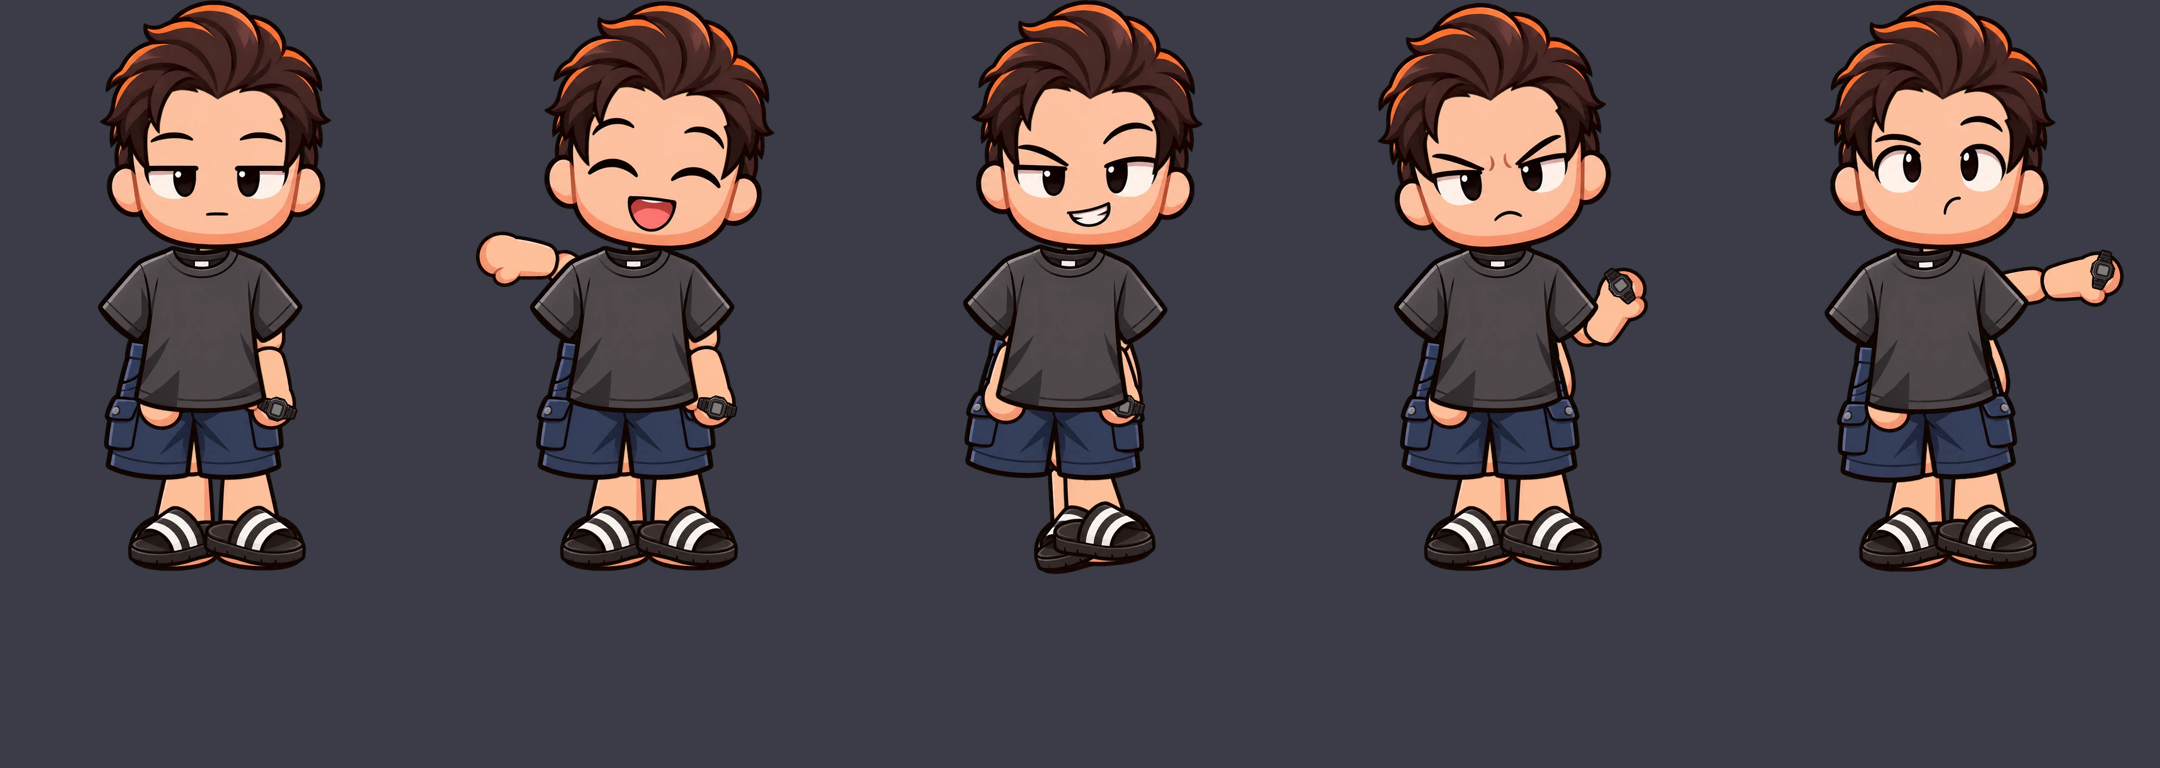
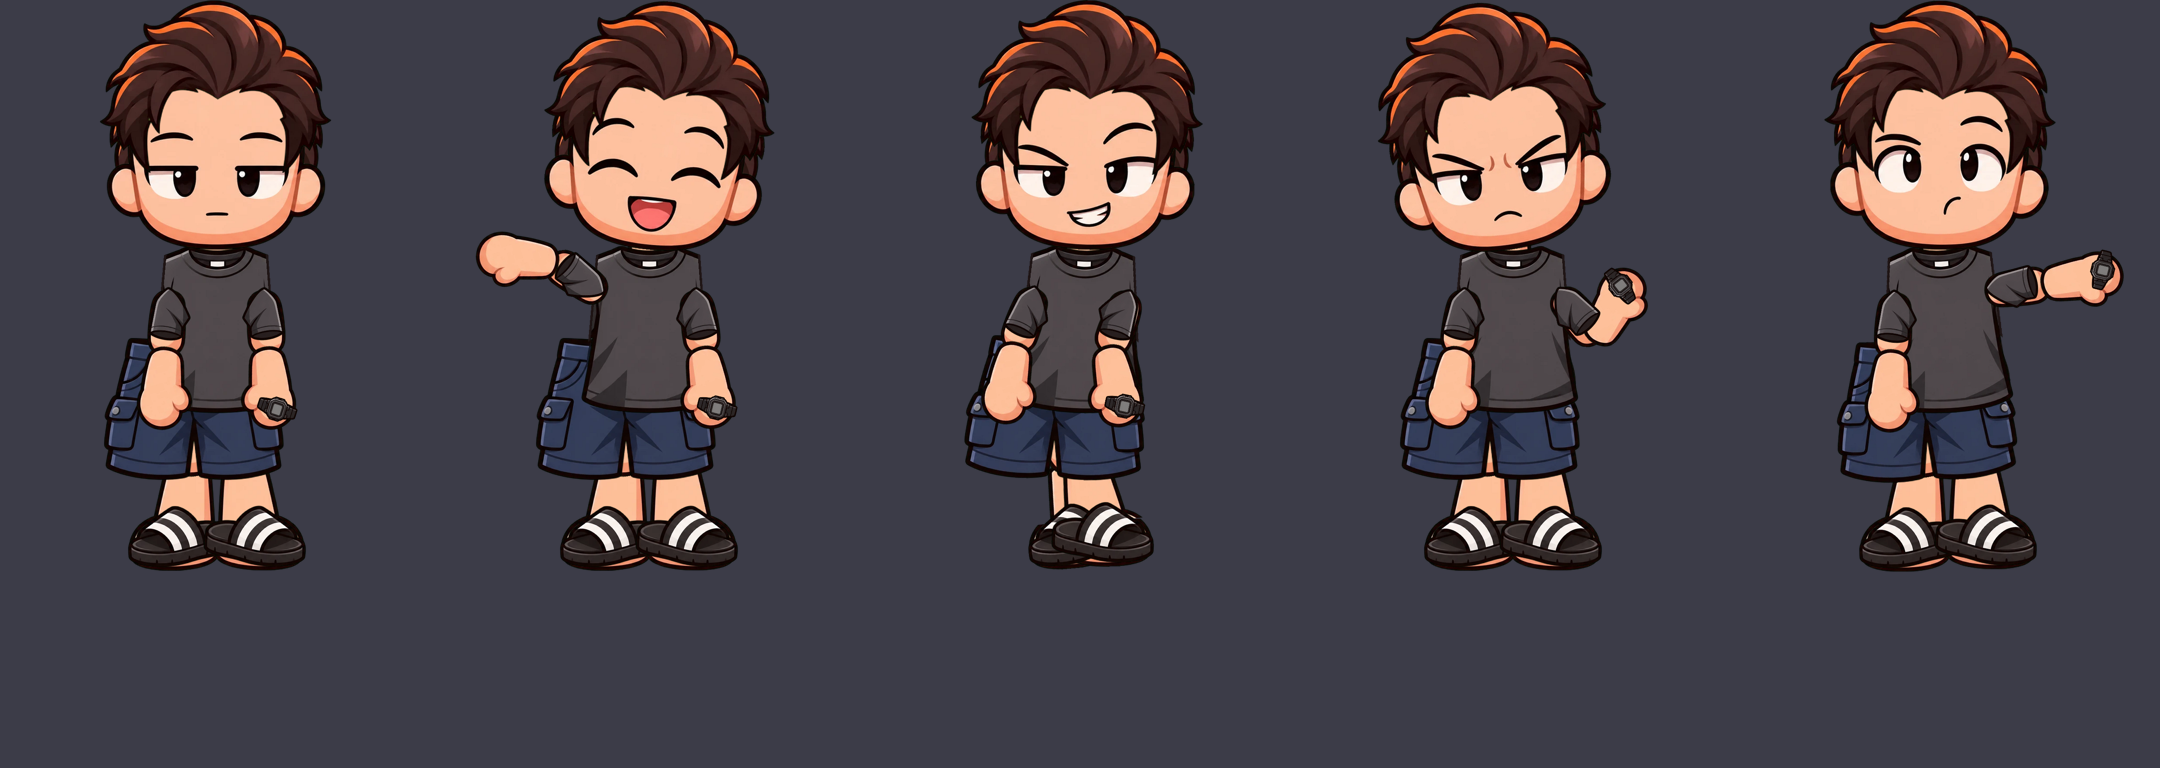
Assembler: separate sleeves, arms in front of shirt, ankle/foot split
Claude-Session: https://claude.ai/code/session_01Byrjuthbsv1nwgYw99Hssd

diff --git a/tools/chibi/assemble.py b/tools/chibi/assemble.py
@@ -23,7 +23,9 @@ FIT = dict(
     hip=dict(R=(78, 262), L=(167, 262)),
     neck_socket=(122, 16),
     head_w=420,                                   # expression heads are scaled to this width
-    shirt=dict(s=0.84, anchor=(270, 44), at=(122, 10)),    # shirt-local point -> torso-local point
+    shirt=dict(s=0.84, anchor=(234, 44), at=(122, 10)),
+    sleeve=dict(len=0.78, dx=0, dy=-6),
+    ankle_row=118, foot_follow=0.35,    # shirt-local point -> torso-local point
     shorts=dict(s=0.88, anchor=(245, 20), at=(122, 168)),
     hair_front=dict(s=0.93, anchor=(240, 215), at=(0.5, 0.18)),   # at = fraction of head w/h
     hair_back=dict(s=0.93, anchor=(220, 230), at=(0.5, 0.42)),
@@ -33,6 +35,20 @@ FIT = dict(
 
 def load(*p):
     return Image.open(os.path.join(A, *p)).convert("RGBA")
+
+def axis_ends(im, frac=0.12):
+    """prox/dist ends of a piece along its long axis (prox = upper end)."""
+    a = np.asarray(im)[..., 3]; ys, xs = np.nonzero(a > 128)
+    pts = np.c_[xs, ys].astype(float); c = pts.mean(0)
+    ax = np.linalg.svd(pts - c, full_matrices=False)[2][0]
+    if ax[1] < 0: ax = -ax
+    t = (pts - c) @ ax; lo, hi = t.min(), t.max()
+    return pts[t < lo + frac * (hi - lo)].mean(0), pts[t > hi - frac * (hi - lo)].mean(0)
+
+def split_rows(im, y0, y1):
+    """copy of im keeping only rows y0 <= y < y1 (same canvas size)"""
+    a = np.asarray(im).copy(); a[:y0] = 0; a[y1:] = 0
+    return Image.fromarray(a, "RGBA")
 
 class Rig:
     def __init__(self):
@@ -105,13 +121,20 @@ class Character:
             knee = self._fwd(hip, ph, s, (M[thigh]["dist"][0] - M[thigh]["prox"][0], M[thigh]["dist"][1] - M[thigh]["prox"][1]))
             pk = P["hip_" + side] + P["knee_" + side]
             add(10, lambda t=thigh, h=hip, ph=ph: self._draw(canvas, self.img[t], M[t]["prox"], h, ph, s))
-            add(9, lambda l=ll, k=knee, pk=pk: self._draw(canvas, self.img[l], M[l]["prox"], k, pk, s))
+            ar = FIT["ankle_row"]; full = self.img[ll]
+            fa_ = np.asarray(full)[..., 3] > 128
+            xs = np.nonzero(fa_[100])[0]; ax_ = ((xs.min() + xs.max()) / 2.0, float(ar))
+            shaft, foot = split_rows(full, 0, ar + 4), split_rows(full, ar, full.height)
+            add(9, lambda sh_=shaft, k=knee, pk=pk, ll=ll: self._draw(canvas, sh_, M[ll]["prox"], k, pk, s))
+            ankle = self._fwd(knee, pk, s, (ax_[0] - M[ll]["prox"][0], ax_[1] - M[ll]["prox"][1]))
+            pfoot = pk * FIT["foot_follow"]
+            add(11, lambda f_=foot, an=ankle, pf=pfoot, ax_=ax_: self._draw(canvas, f_, ax_, an, pf, s))
             if self.clothes:
                 sz = M[ll]["size"]
-                foot_local = (sz[0] / 2 + (8 if side == "R" else -8), sz[1] - 52)
-                fk = self._fwd(knee, pk, s, (foot_local[0] - M[ll]["prox"][0], foot_local[1] - M[ll]["prox"][1]))
+                off = (sz[0] / 2 + (8 if side == "R" else -8) - ax_[0], sz[1] - 52 - ax_[1])
                 sand = load("clothes", "sandal_A.png" if side == "R" else "sandal_B.png")
-                add(11, lambda sa=sand, fk=fk, pk=pk: self._draw(canvas, sa, (sa.width / 2, sa.height * 0.62), fk, pk, s * FIT["sandal"]["s"]))
+                spt = self._fwd(ankle, pfoot, s, off)
+                add(12, lambda sa=sand, sp_=spt, pf=pfoot: self._draw(canvas, sa, (sa.width / 2, sa.height * 0.62), sp_, pf, s * FIT["sandal"]["s"]))
 
         # ----- torso, clothes -----
         add(20, lambda: self._draw(canvas, self.img["torso"], tor_pt, T, tphi, s))
@@ -119,7 +142,7 @@ class Character:
             sh = load("clothes", "shorts_front.png"); f = FIT["shorts"]
             sw = tw(f["at"])
             add(21, lambda: self._draw(canvas, sh, f["anchor"], sw, tphi, s * f["s"]))
-            ts = load("clothes", "tshirt_front.png"); f2 = FIT["shirt"]
+            ts = load("clothes", "tshirt_front_nosleeve.png"); f2 = FIT["shirt"]
             tw_ = tw(f2["at"])
             add(30, lambda: self._draw(canvas, ts, f2["anchor"], tw_, tphi, s * f2["s"]))
 
@@ -131,12 +154,19 @@ class Character:
             elbow = self._fwd(sp, ph, sa, (M[ua]["dist"][0] - M[ua]["prox"][0], M[ua]["dist"][1] - M[ua]["prox"][1]))
             pf = P["shoulder_" + side] + P["elbow_" + side] + tphi
             pfa = pf + rig.align(fa)
-            add(25, lambda u=ua, sp=sp, ph=ph: self._draw(canvas, self.img[u], M[u]["prox"], sp, ph, sa))
-            add(26, lambda f_=fa, e=elbow, pfa=pfa: self._draw(canvas, self.img[f_], M[f_]["prox"], e, pfa, sa))
+            add(31, lambda u=ua, sp=sp, ph=ph: self._draw(canvas, self.img[u], M[u]["prox"], sp, ph, sa))
+            add(32, lambda f_=fa, e=elbow, pfa=pfa: self._draw(canvas, self.img[f_], M[f_]["prox"], e, pfa, sa))
+            if self.clothes:
+                sl = load("clothes", "sleeve_" + side + ".png")
+                sp0, sp1 = axis_ends(sl); slen = math.hypot(*(sp1 - sp0))
+                ulen = math.hypot(M[ua]["dist"][0] - M[ua]["prox"][0], M[ua]["dist"][1] - M[ua]["prox"][1])
+                ss = sa * FIT["sleeve"]["len"] * ulen / slen
+                vx, vy = sp1 - sp0; psl = P["shoulder_" + side] + tphi + (90.0 - math.degrees(math.atan2(vy, vx)))
+                add(33, lambda sl=sl, sp0=sp0, sp=sp, psl=psl, ss=ss: self._draw(canvas, sl, (sp0[0], sp0[1]), (sp[0], sp[1] + FIT["sleeve"]["dy"] * s), psl, ss))
             if self.clothes and side == "L":
                 wp = self._fwd(elbow, pfa, sa, (M[fa]["dist"][0] - M[fa]["prox"][0], M[fa]["dist"][1] - M[fa]["prox"][1] - FIT["watch"]["back"]))
                 w = load("clothes", "watch.png")
-                add(27, lambda w=w, wp=wp, pfa=pfa: self._draw(canvas, w, (w.width / 2, w.height / 2), wp, pfa, sa * FIT["watch"]["s"]))
+                add(34, lambda w=w, wp=wp, pfa=pfa: self._draw(canvas, w, (w.width / 2, w.height / 2), wp, pfa, sa * FIT["watch"]["s"]))
 
         # ----- neck + head -----
         nm = M["neck"]; sock = tw(FIT["neck_socket"])

diff --git a/tools/chibi/prep_clothes.py b/tools/chibi/prep_clothes.py
@@ -1,0 +1,36 @@
+"""Make sleeveless shirt cutouts (sleeves are drawn separately on the upper arms).
+    python3 -I tools/chibi/prep_clothes.py
+Reads assets/clothes/tshirt_front.png / tshirt_back.png, writes *_nosleeve.png next to them."""
+import os
+import numpy as np
+from PIL import Image, ImageDraw, ImageFilter
+
+D = os.path.join(os.path.dirname(os.path.abspath(__file__)), "..", "..", "assets", "clothes")
+OUTLINE = (30, 20, 20, 255)
+
+def nosleeve(name):
+    im = Image.open(os.path.join(D, name + ".png")).convert("RGBA")
+    w, h = im.size
+    # keep polygon: vertical-ish body, cut where the sleeves join
+    xl0, xl1 = w * 0.25, w * 0.205      # left cut x at top / at hem line
+    xr0, xr1 = w * 0.75, w * 0.79
+    yc = h * 0.63
+    poly = [(xl0, 0), (xr0, 0), (xr1, yc), (w, yc), (w, h), (0, h), (0, yc), (xl1, yc)]
+    keep = Image.new("L", (w, h), 0); ImageDraw.Draw(keep).polygon(poly, fill=255)
+    # below the hem line keep everything (body only there)
+    ImageDraw.Draw(keep).rectangle([0, yc, w, h], fill=255)
+    a = np.asarray(im).copy()
+    a[..., 3] = (a[..., 3].astype(np.float32) * (np.asarray(keep) / 255.0)).astype(np.uint8)
+    out = Image.fromarray(a, "RGBA")
+    # outline stroke along the two cut edges, clipped to the kept silhouette
+    stroke = Image.new("RGBA", (w, h), (0, 0, 0, 0)); d = ImageDraw.Draw(stroke)
+    d.line([(xl0, h * 0.02), (xl1, yc)], fill=OUTLINE, width=9)
+    d.line([(xr0, h * 0.02), (xr1, yc)], fill=OUTLINE, width=9)
+    clip = np.minimum(np.asarray(out)[..., 3], np.asarray(im)[..., 3])
+    sa = np.asarray(stroke).copy(); sa[..., 3] = np.minimum(sa[..., 3], clip)
+    out = Image.alpha_composite(out, Image.fromarray(sa, "RGBA"))
+    out.save(os.path.join(D, name + "_nosleeve.png"))
+
+for n in ("tshirt_front", "tshirt_back"):
+    nosleeve(n)
+print("ok")

diff --git a/README.md b/README.md
@@ -22,7 +22,8 @@ This project is a fork of the MIT-licensed *Ricks Clips Style Kit* by @caesarsca
 - [x] Mouth shapes (9), hair (5 views), clothes (11 pieces) and 5-view turnaround cut into transparent PNGs (`assets/mouths|hair|clothes|turnaround`)
 - [ ] 20-face personality sheet added as a file (`assets/faces/`), see `docs/11_PERSONALITY_FACES.md`
 - [x] Assembler `tools/chibi/assemble.py` renders posed characters (see `docs/rig_tests/poses.png`)
-- [ ] Fix known assembler issues: stubby arms behind the shirt, walk-cycle feet, sleeves baked into shirt
+- [x] Assembler fixes: separate sleeves on the arms (`tools/chibi/prep_clothes.py` makes sleeveless shirts), arms in front of the shirt, flat ankle/foot split for walking
+- [ ] Remaining assembler polish: thick short forearms, shoulder/sleeve seam, torso proportion, side/back views
 - [ ] Anime-film grade, toon shader and FX in `engine/` and `blender/`
 - [ ] First test short
 
